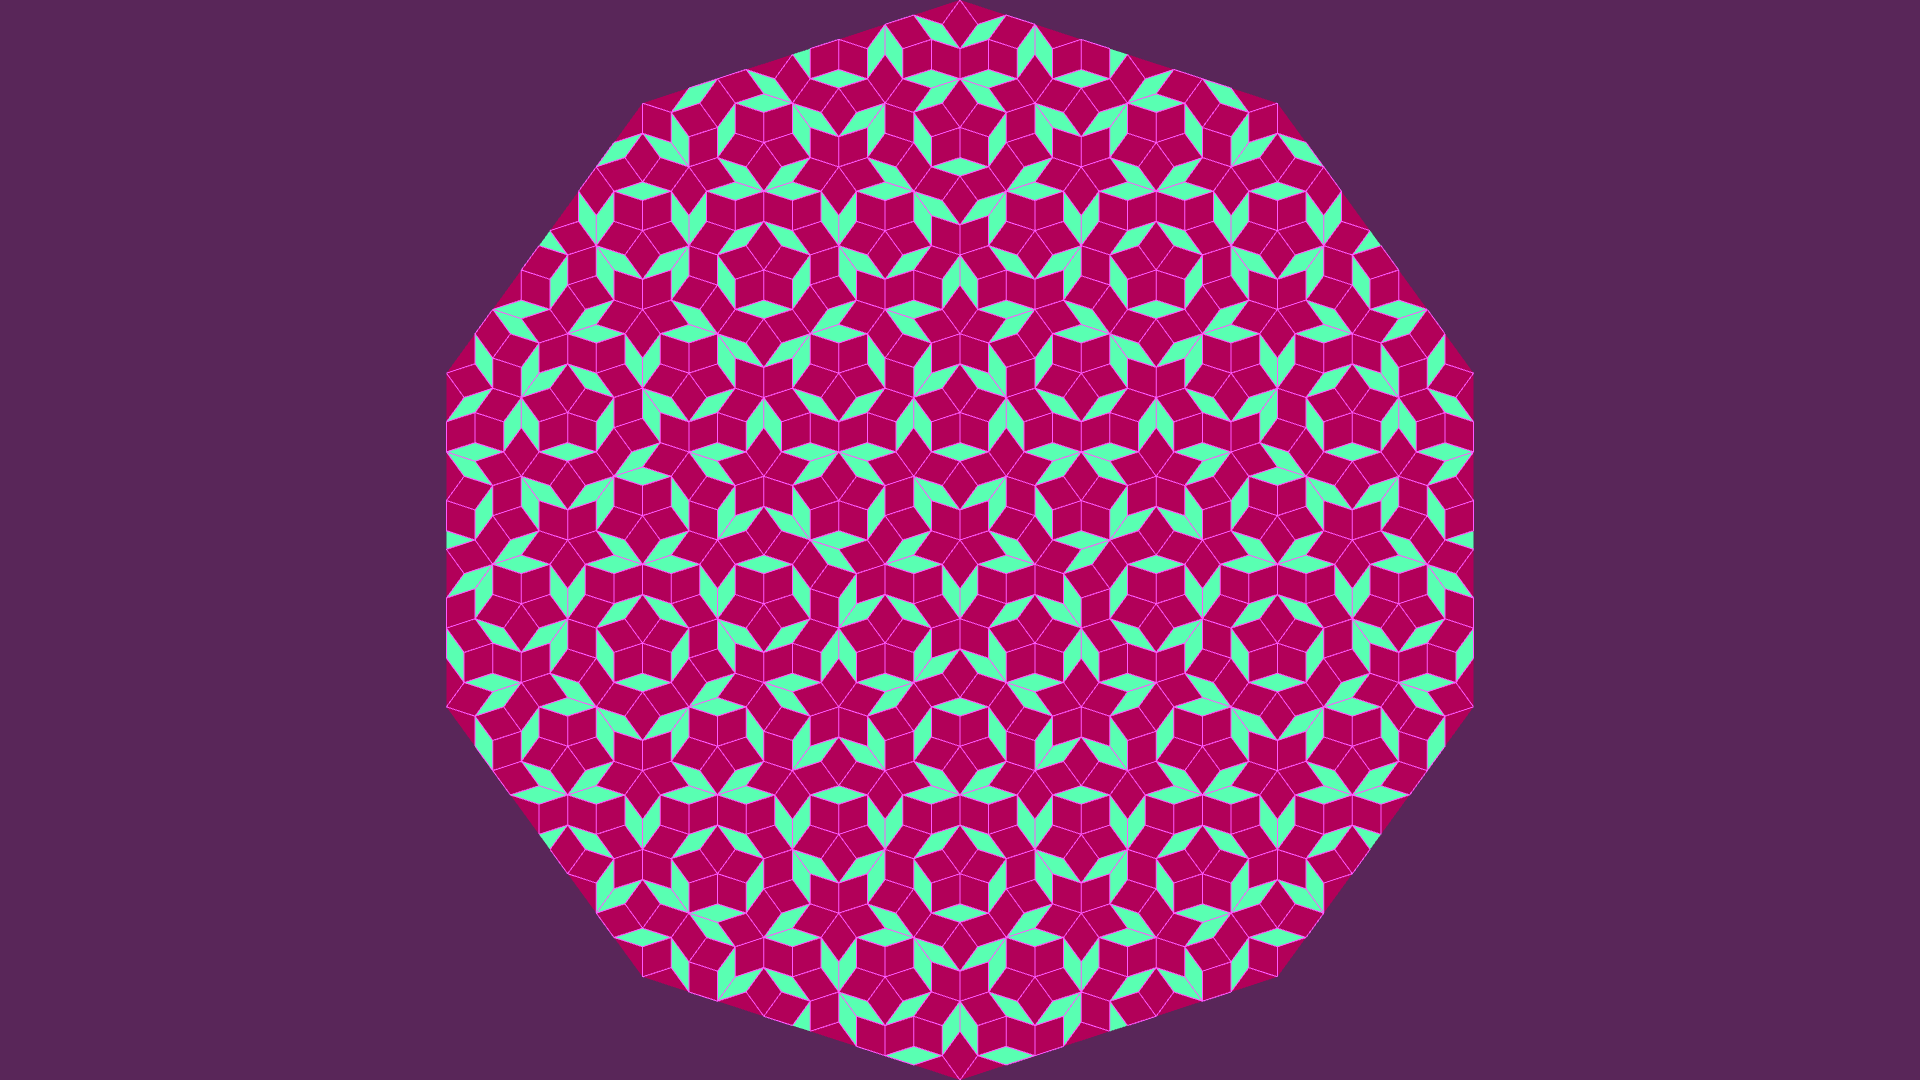
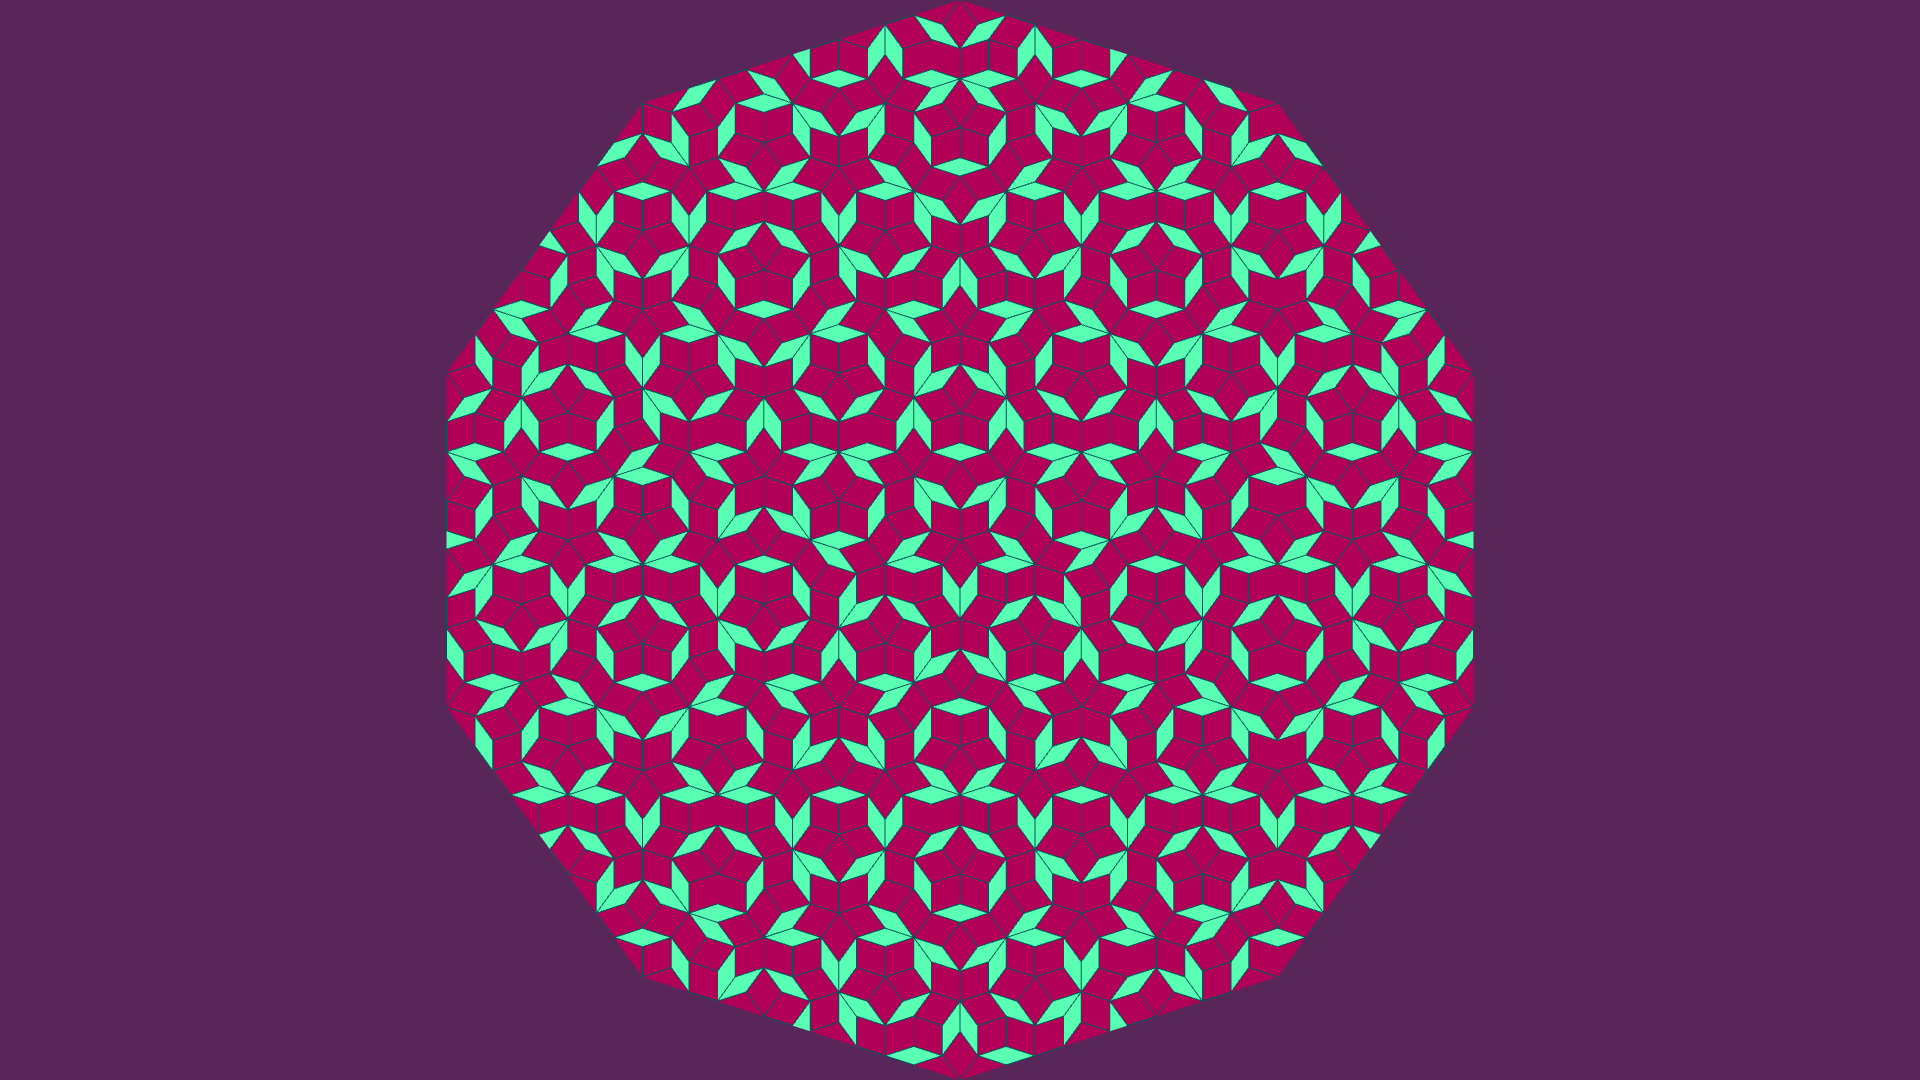
updating scrot2

Changed region(s): [[0.25, 0.0306, 0.75, 0.9778]]

diff --git a/penrose.cpp b/penrose.cpp
@@ -17,7 +17,7 @@ static const bool p2 = false;     //tiling type (p2, p3)
 
 static const glm::vec4 primary(0.7f, 0.0f, 0.35f, 1.0f);
 static const glm::vec4 secondary(0.35f, 1.0f, 0.7f, 1.0f);
-static const glm::vec4 line(1.0f, 0.35f, 1.0f, 1.0f);
+static const glm::vec4 line(0.0f, 0.35, 0.35, 1.0f);
 static const glm::vec4 background(0.35f, 0.15f, 0.35f, 1.0f);
 
 static const float phi = 1.0 / ((1.0 + sqrt(5.0)) / 2);
